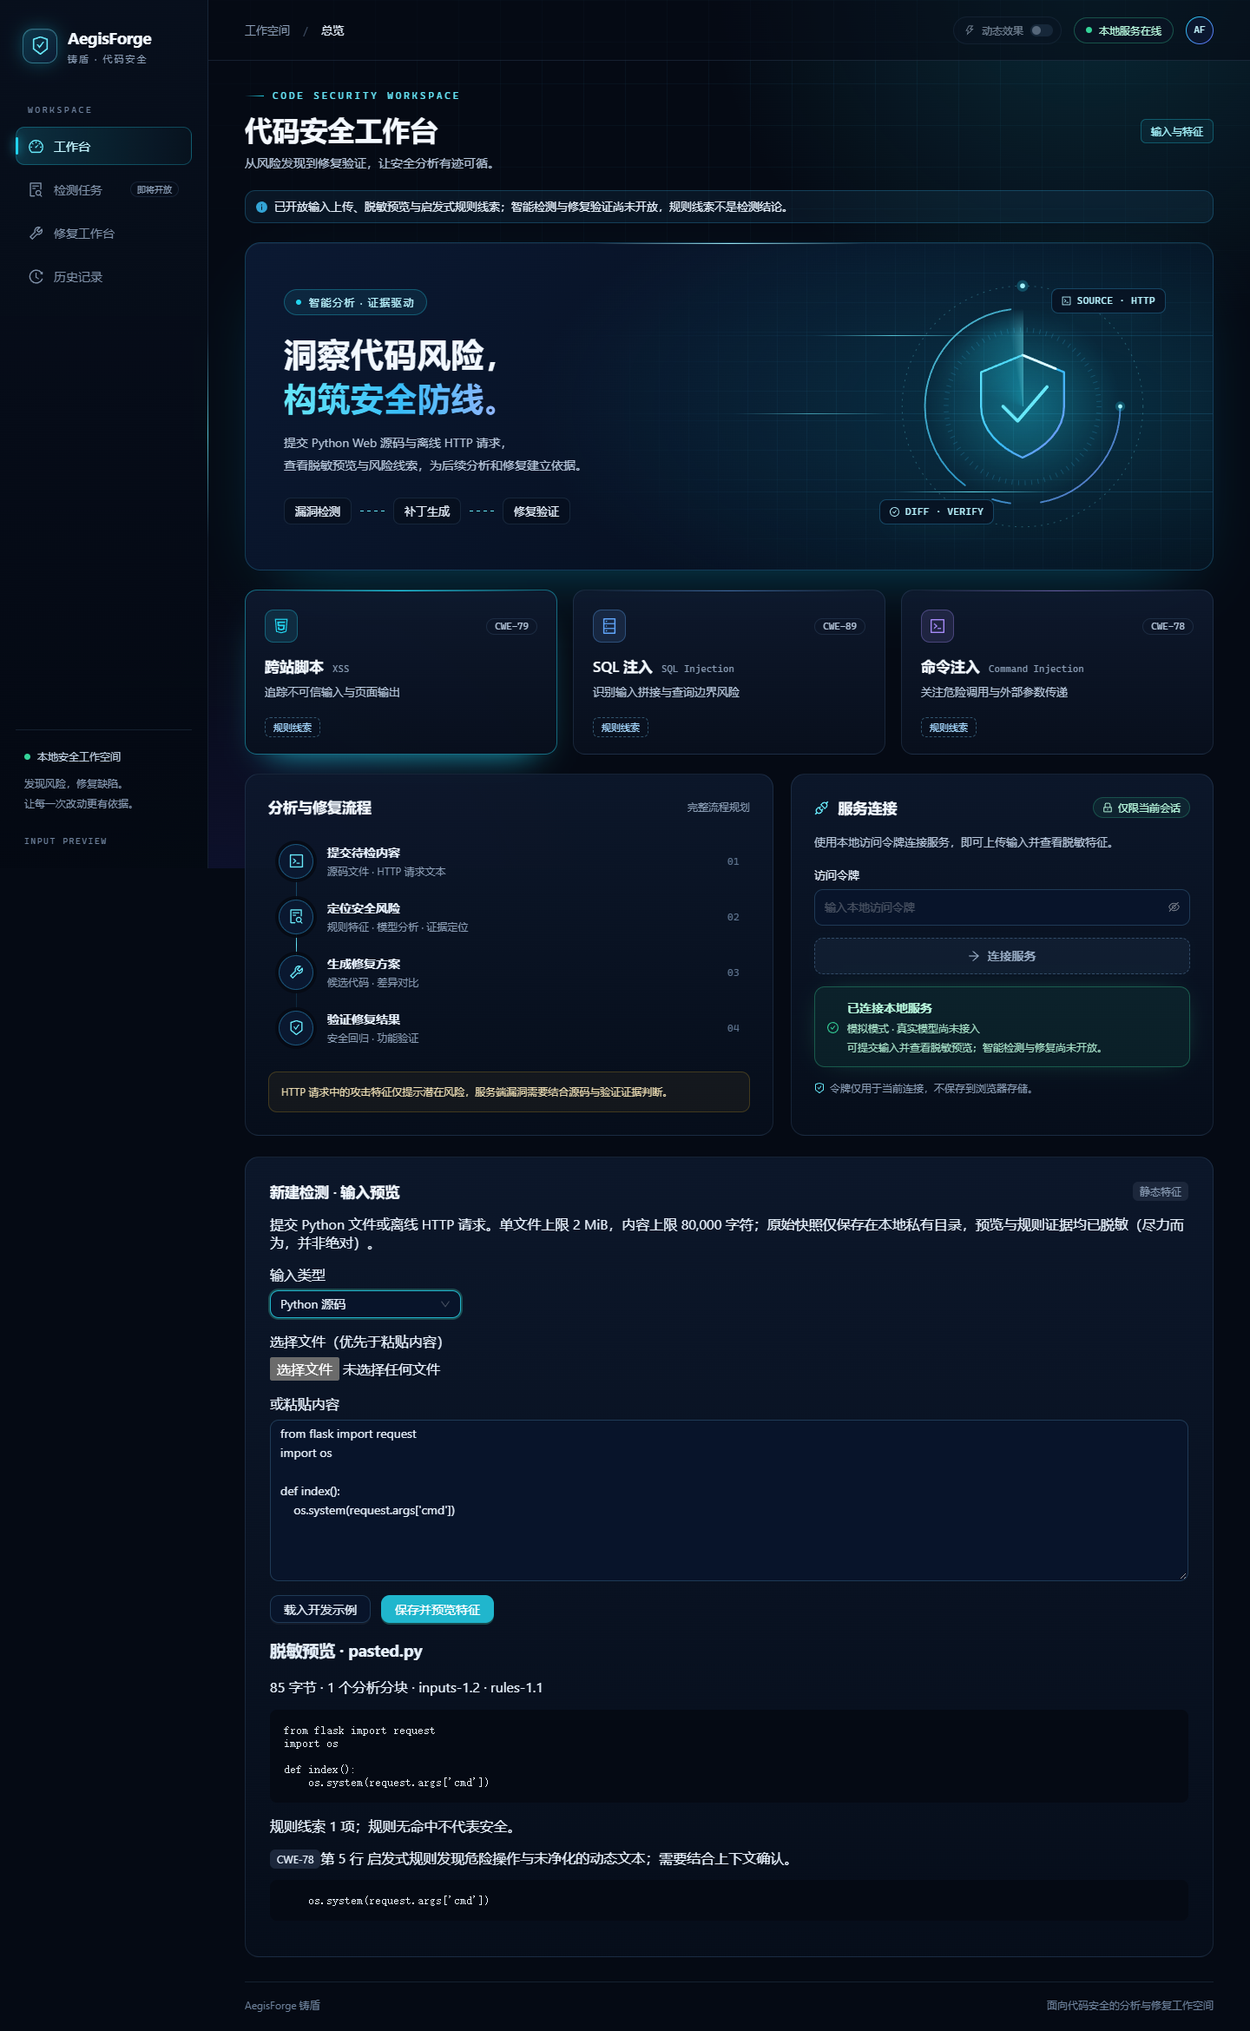
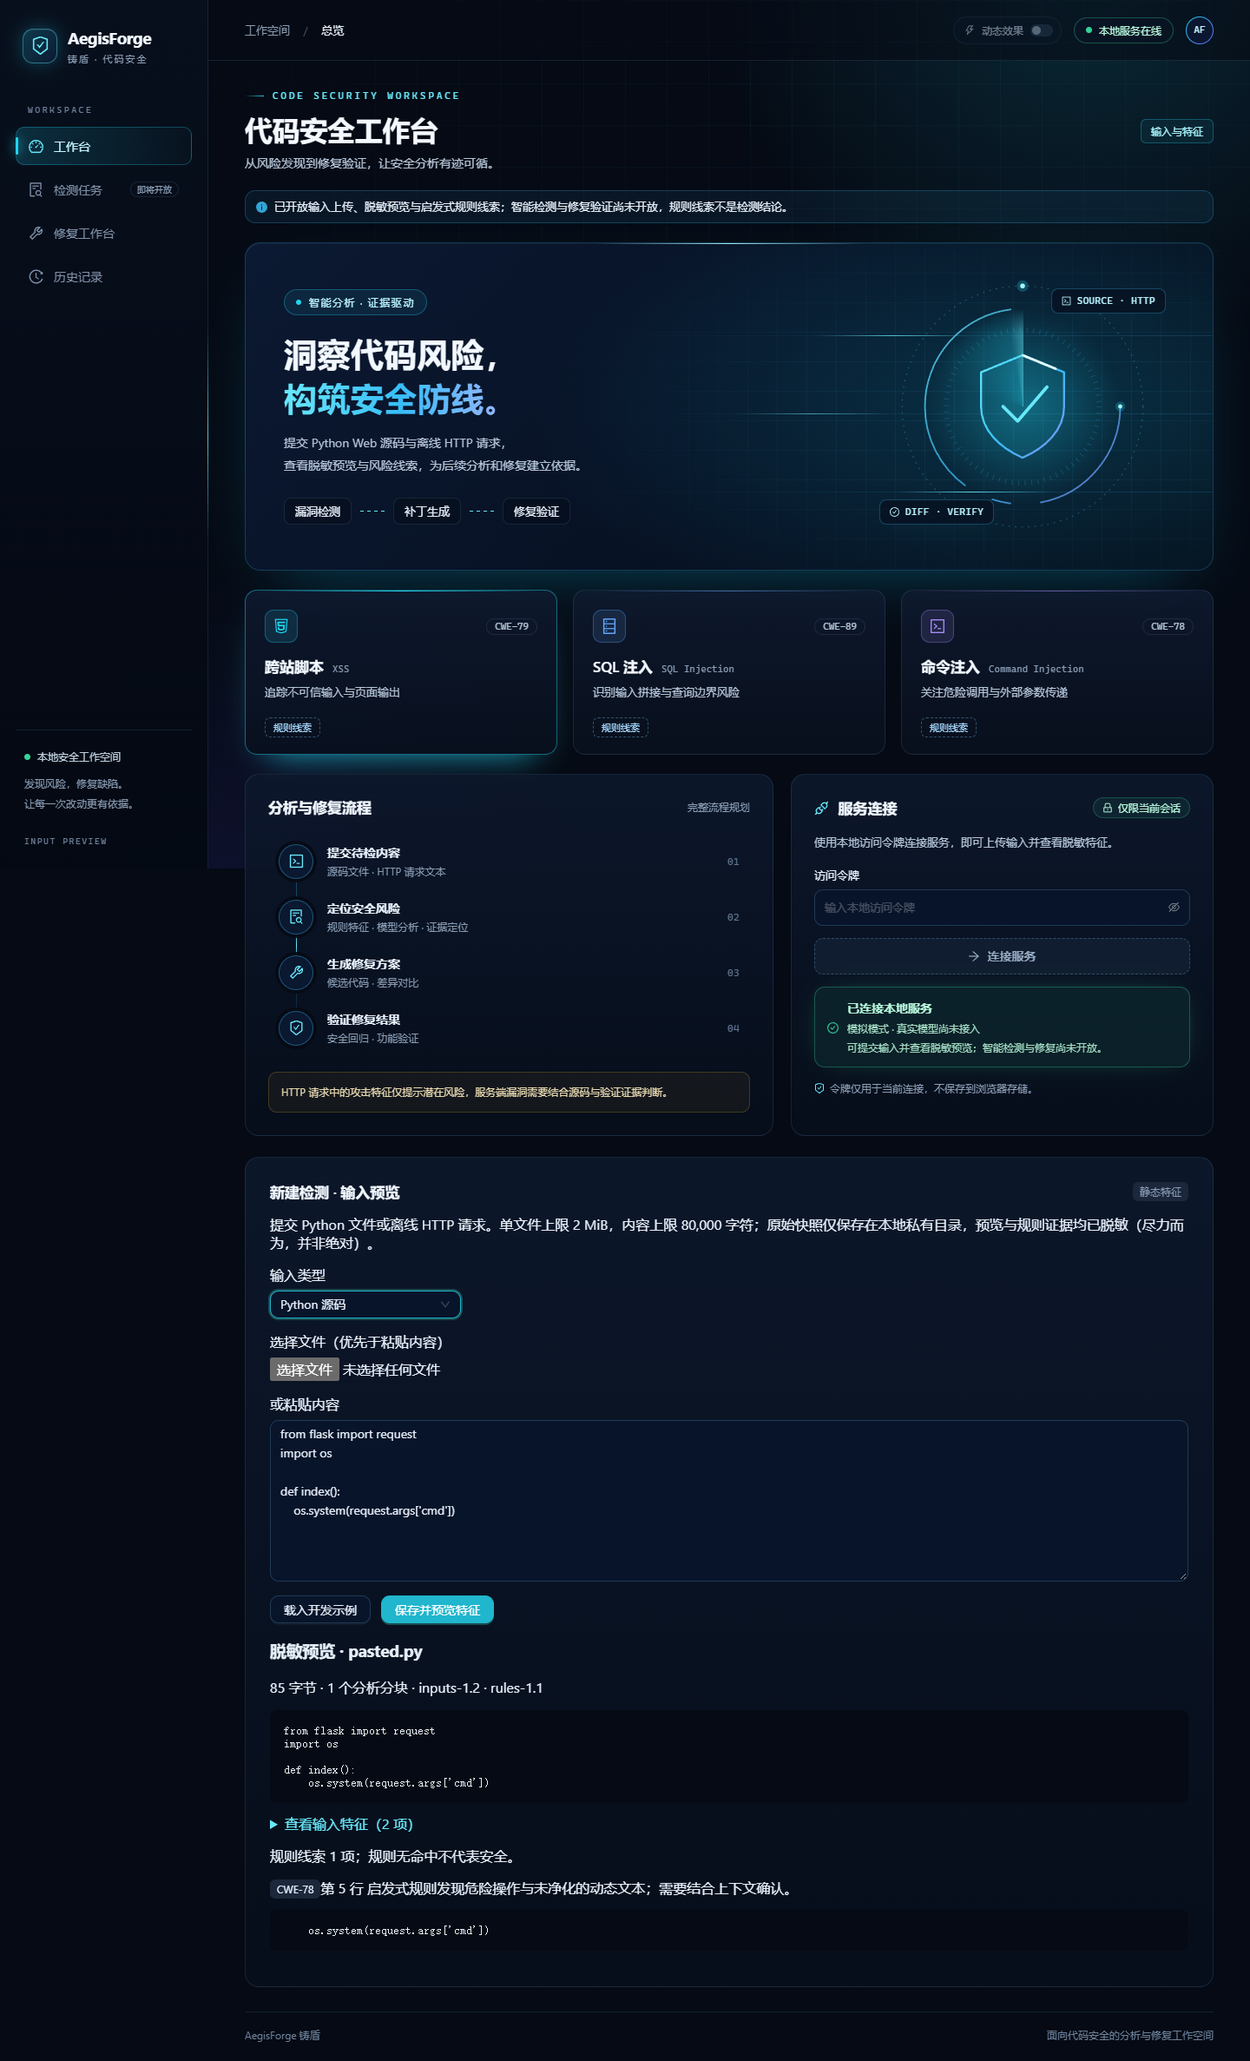
fix: expose source origins and limited text hints (Refs #3)

diff --git a/frontend/src/components/IngestPanel.tsx b/frontend/src/components/IngestPanel.tsx
@@ -8,6 +8,8 @@ const SAMPLES = {
   http: 'GET /?q=%3Cscript%3E HTTP/1.1\nHost: example.invalid\n\n',
 };
 
+const FEATURE_LABELS = { call: '函数调用', string_expression: '字符串表达式', input_source: '输入来源', text_call_hint: '文本调用线索' };
+
 function locate(finding: Finding, preview: ArtifactPreview): string {
   if (finding.location.kind === 'source') {
     const { start_line: start, end_line: end } = finding.location;
@@ -94,6 +96,15 @@ export default function IngestPanel({ token }: { token: string }) {
       <p>{artifact.size_bytes} 字节 · {artifact.chunk_count} 个分析分块 · {artifact.parser_version} · {artifact.rule_version}</p>
       {artifact.warnings.map((warning, index) => <Alert key={index} type="warning" title={warning} />)}
       <pre>{artifact.content}</pre>
+      {artifact.features.length > 0 && <details className="input-features">
+        <summary>查看输入特征（{artifact.features.length} 项）</summary>
+        <ul>{artifact.features.slice(0, 30).map((feature, index) => <li key={index}>
+          <Tag>{FEATURE_LABELS[feature.kind]}</Tag>第 {feature.line} 行 {feature.name ?? ''}
+          {feature.sink_candidate && <Tag>关注调用 · {feature.sink_candidate.toUpperCase()}</Tag>}
+        </li>)}</ul>
+        {artifact.features.length > 30 && <p>当前展示前 30 项。</p>}
+        <p>输入特征是分析线索，不是漏洞结论。</p>
+      </details>}
       <p>规则线索 {artifact.rule_findings.length} 项{artifact.rule_findings_truncated ? '（已达上限，未全部展示）' : ''}；规则无命中不代表安全。</p>
       {artifact.rule_findings.map((finding, index) => <div key={index}>
         <Tag>{finding.cwe}</Tag>{finding.evidence_truncated && <Tag color="warning">证据已截断</Tag>}

diff --git a/frontend/src/types/api.ts b/frontend/src/types/api.ts
@@ -31,10 +31,15 @@ export interface FieldMeta {
   line?: number; raw_start?: number; raw_end?: number; decode_limited?: boolean;
 }
 
+export interface InputFeature {
+  kind: 'call' | 'string_expression' | 'input_source' | 'text_call_hint';
+  line: number; name?: string; sink_candidate?: 'xss' | 'sqli' | 'cmdi';
+}
+
 export interface ArtifactPreview {
   id: string; input_type: 'source' | 'http'; display_name: string; sha256: string;
   size_bytes: number; parser_version: string; rule_version: string;
   content: string; fields: Record<string, string>; field_meta: Record<string, FieldMeta>;
-  features: unknown[]; warnings: string[]; chunk_count: number;
+  features: InputFeature[]; warnings: string[]; chunk_count: number;
   rule_findings: Finding[]; rule_findings_truncated: boolean;
 }

diff --git a/frontend/tests/e2e/inputs.spec.ts b/frontend/tests/e2e/inputs.spec.ts
@@ -27,6 +27,8 @@ test('uploads source and HTTP inputs, shows redacted evidence and rejects invali
   await expect(preview).toContainText('第 3 行');
   await expect(preview).not.toContainText('SYNTHETIC_PRIVATE_VALUE');
   await expect(preview).toContainText('[REDACTED]');
+  await preview.getByText(/查看输入特征/).click();
+  await expect(preview.getByText('输入来源', { exact: true })).toBeVisible();
 
   await panel.getByRole('button', { name: '载入开发示例' }).click();
   expect(await panel.locator('input[type=file]').evaluate((node: HTMLInputElement) => node.files?.length)).toBe(0);

diff --git a/frontend/src/styles.css b/frontend/src/styles.css
@@ -272,3 +272,4 @@ footer { display: flex; justify-content: space-between; gap: 12px; font-size: 12
 .artifact-preview pre { white-space: pre-wrap; overflow-wrap: anywhere; padding: 16px; background: #050a14; border-radius: 8px; max-height: 360px; overflow: auto; }
 .artifact-preview .ant-alert { margin-bottom: 8px; }
 @media (max-width: 590px) { .ingest-panel { padding: 18px; } }
+.input-features { margin: 12px 0; overflow-wrap: anywhere; } .input-features summary { cursor: pointer; color: #69e8f9; } .input-features li { margin: 8px 0; }

diff --git a/backend/app/parsers/inputs.py b/backend/app/parsers/inputs.py
@@ -29,6 +29,47 @@ MAX_JSON_DEPTH = 32
 MAX_FEATURES = 2_000
 LINE_SEPARATORS = frozenset("\x85  ")
 SUPPORTED_BODIES = "仅支持 JSON、application/x-www-form-urlencoded 与 text/plain 正文"
+REQUEST_FIELDS = frozenset(
+    {
+        "args",
+        "form",
+        "values",
+        "json",
+        "data",
+        "cookies",
+        "headers",
+        "view_args",
+        "get_json",
+        "get_data",
+    }
+)
+SHELL_CALLS = frozenset(
+    {
+        "os.system",
+        "os.popen",
+        "subprocess.run",
+        "subprocess.call",
+        "subprocess.Popen",
+        "subprocess.check_call",
+        "subprocess.check_output",
+        "subprocess.getoutput",
+        "subprocess.getstatusoutput",
+    }
+)
+TEXT_CALL = re.compile(
+    r"\b((?:[A-Za-z_]\w{0,63}\.){0,4}(?:system|popen|execute|executemany|executescript|"
+    r"render_template_string|Markup|make_response))\s*\("
+)
+
+
+def sink_category(name: str) -> str | None:
+    if name in SHELL_CALLS:
+        return "cmdi"
+    if name.rsplit(".", 1)[-1] in {"execute", "executemany", "executescript"}:
+        return "sqli"
+    if name.rsplit(".", 1)[-1] in {"render_template_string", "Markup", "make_response"}:
+        return "xss"
+    return None
 
 
 @dataclass(frozen=True)
@@ -133,14 +174,64 @@ def parse_source(text: str) -> ParsedInput:
     except (SyntaxError, ValueError, RecursionError, MemoryError):
         warnings.append("Python AST 解析失败：仅提供文本线索，源码规则未运行，分析能力受限。")
     if tree is not None:
+        aliases = {}
+        for node in ast.walk(tree):
+            if isinstance(node, ast.Import):
+                for alias in node.names:
+                    aliases[alias.asname or alias.name.split(".")[0]] = (
+                        alias.name if alias.asname else alias.name.split(".")[0]
+                    )
+            elif isinstance(node, ast.ImportFrom) and node.module:
+                for alias in node.names:
+                    aliases[alias.asname or alias.name] = f"{node.module}.{alias.name}"
+
+        def canonical(name: str) -> str:
+            root, dot, rest = name.partition(".")
+            return aliases.get(root, root) + dot + rest
+
         for node in ast.walk(tree):
             if isinstance(node, ast.Call):
-                name = redact_name(qualified(node.func))[:200]
-                features.append({"kind": "call", "name": name, "line": node.lineno})
-            elif isinstance(node, (ast.JoinedStr, ast.BinOp)):
+                original = qualified(node.func)
+                feature = {"kind": "call", "name": redact_name(original)[:200], "line": node.lineno}
+                category = sink_category(canonical(original))
+                if category:
+                    feature["sink_candidate"] = category  # A sink alone is not a vulnerability.
+                features.append(feature)
+            elif isinstance(node, ast.JoinedStr) or (
+                isinstance(node, ast.BinOp) and isinstance(node.op, (ast.Add, ast.Mod))
+            ):
                 features.append({"kind": "string_expression", "line": node.lineno})
+            elif isinstance(node, ast.Attribute):
+                original = qualified(node)
+                name = canonical(original)
+                root, _, member = name.rpartition(".")
+                if root in {"request", "flask.request"} and member in REQUEST_FIELDS:
+                    features.append(
+                        {
+                            "kind": "input_source",
+                            "name": redact_name(original)[:200],
+                            "line": node.lineno,
+                        }
+                    )
             if len(features) >= MAX_FEATURES:
                 warnings.append("特征预览达到 2,000 项上限；模型仍覆盖全部预算内文本。")
+                break
+    else:
+        # Text hints never become AST-verified rule findings. Expose names/line numbers,
+        # not raw snippets or credentials from the private matching view.
+        for line_number, line in enumerate(text.split("\n"), 1):
+            for match in TEXT_CALL.finditer(line):
+                features.append(
+                    {
+                        "kind": "text_call_hint",
+                        "name": redact_name(match[1])[:200],
+                        "line": line_number,
+                    }
+                )
+                if len(features) >= MAX_FEATURES:
+                    break
+            if len(features) >= MAX_FEATURES:
+                warnings.append("文本线索预览达到 2,000 项上限。")
                 break
     return ParsedInput(public, {}, {}, features, warnings, chunks, private_tree=tree)
 

diff --git a/backend/tests/test_source_features.py b/backend/tests/test_source_features.py
@@ -1,0 +1,29 @@
+from uuid import uuid4
+
+from app.parsers.inputs import parse_input
+from app.rules.detector import detect
+
+
+def test_request_origins_and_sink_candidates_do_not_claim_vulnerability():
+    code = (
+        "from flask import request as req\n"
+        "q = req.args['q']\n"
+        "api_key = 'FEATURE_SECRET'\n"
+        "cursor.execute('SELECT * FROM users WHERE name=?', (q,))\n"
+    )
+    parsed = parse_input("source", code)
+    assert any(
+        f["kind"] == "input_source" and f["name"] == "req.args" and f["line"] == 2
+        for f in parsed.features
+    )
+    assert any(f.get("sink_candidate") == "sqli" for f in parsed.features)
+    assert not detect(uuid4(), "source", parsed).findings
+    assert "FEATURE_SECRET" not in str(parsed.features)
+
+
+def test_unparseable_source_keeps_text_hints_without_ast_findings():
+    parsed = parse_input("source", "import os\nos.system(cmd)\ndef incomplete(\n")
+    assert parsed.private_tree is None
+    assert {"kind": "text_call_hint", "name": "os.system", "line": 2} in parsed.features
+    rules = detect(uuid4(), "source", parsed)
+    assert not rules.findings and rules.warnings

diff --git a/docs/collaboration-2026-11-05.md b/docs/collaboration-2026-11-05.md
@@ -10,7 +10,7 @@
 | --- | --- | --- |
 | M2 / 1 | `ec9099f8-cee9-4c49-adba-cd5a6662a538` | Codex 实现上传、快照、解析、规则和输入页；Claude 只读审查。Codex 复现脱敏破坏 AST、敏感字段载荷漏报、三次解码、Unicode 行号错位和超长参数异常。初始 46 项后端通过；新增控件导致前端 ResizeObserver 测试环境缺失，未掩盖失败。 |
 | M2 / 2 | `c0dbd1e0-cebd-451c-a059-4ca7b57854de` | Claude 实现检测/脱敏双视图、预算前置、输入/文件状态、开发样例与保留家族目录；Codex 阅读核心实现并运行 120 后端通过、1 平台跳过，13 前端通过，类型检查和 Ruff 通过。开发样例 48 源码/24 HTTP，哈希由本地脚本真实计算；保留集尚未冻结。 |
-| M2 / 3 | `1cbf91c1-07a7-4b28-a7ae-20413a812e97` | Claude 提出 A/B/C 取舍，Codex 采纳逐片段脱敏、行级证据附截断标记、按预登记目录编写保留样例并冻结的方案；Claude 开发，Codex 读 diff、复现实验、补上表达式内字符串脱敏与独占创建清理边界，生成实际冻结并审查验证。最终 141 后端通过、1 平台跳过，14 前端及 2 浏览器场景通过。 |
+| M2 / 3 | `1cbf91c1-07a7-4b28-a7ae-20413a812e97` | Claude 提出 A/B/C 取舍，Codex 采纳逐片段脱敏、行级证据附截断标记、按预登记目录编写保留样例并冻结的方案；Claude 开发，Codex 读 diff、复现实验、补上表达式内字符串脱敏与独占创建清理边界，生成实际冻结并审查验证。最终 143 后端通过、1 平台跳过，14 前端及 2 浏览器场景通过。 |
 | M3 / 1–3 | 用户暂缓，未调用 | 未开始实现。 |
 
 第二轮曾有失败调用 `e4feefd0-d1e1-46d5-ab0b-f5fd6ba3feb4`：Codex 设置的 1,800 秒硬时限触发 TIMEOUT，bridge 停止进程树；这次失败不计为成功轮次。Codex 核查进程已结束、修改保留、测试状态后，用户要求 Claude 仍工作时不要按固定时长打断；随后 `recover --confirm-reviewed --expect-session` 解锁原会话，按已落盘状态续接收尾，没有盲目重放全部修改。后续调用不再使用短时限。
@@ -18,3 +18,5 @@
 开发集规则报告只读取开发集：源码 24 TP、23 TN、1 FP；HTTP 12 TP、11 TN、1 FP。这是调试统计，不是保留集评测或真实模型结果。人工标注复核仍为 pending，AI 编写不算人工复核。完整准确率、修复与动态验证仍按 PLAN 在后续里程碑验收。
 
 第三轮的普通字面量与 f-string 文本片段修正通过后，Codex 另复现了表达式内嵌字符串漏出凭据，修复并加入 3 个回归例；核对了随机存储键碰撞不会删除既有快照、超长外层 Content-Length 不会转成 500、重新冻结失败保留旧锁。保留集只运行结构/语法/解析预算/哈希完整性检查，没有运行规则或模型评测。浏览器初次用隐藏的虚拟选项定位失败，改为键盘选择后完整 2 场景通过；没有扩大超时来掩盖问题。
+
+Codex 最后按 PLAN 核对补齐明确的 Flask 输入来源、关注调用候选与 AST 失败后的文本提示，输入页增加可展开的特征清单；增加两个回归例后本地后端为 143 passed / 1 平台 skipped，前端仍为 14，浏览器为 2。此补充不改变规则逻辑、测试标签或冻结输入。

diff --git a/docs/m2-design.md b/docs/m2-design.md
@@ -10,6 +10,7 @@
 | 私有（仅内存） | 源码原文 AST（`private_tree`）、HTTP 未脱敏规范化值（`private_fields`） | 仅规则匹配；`build_preview` 不读取，禁止序列化 |
 
 - 源码规则基于**原文** AST；证据取自脱敏视图的**同号行**。源码脱敏只改写字符串字面量、f-string 字面量片段与注释，并强制保持换行数，故行号一致且代码结构不被破坏。
+- 公开特征单独标记 Flask 请求输入来源（含导入别名）、调用与关注 sink、字符串构造及全局行号；语法失败时提供明确的文本调用线索，不能冒充 AST 规则发现。输入页可展开查看前 30 项，不把参数化查询等合法 sink 直接当作漏洞。
 - 非敏感上下文的 f-string：逐个字面量片段（`FSTRING_MIDDLE`）脱敏；若分词器偏移与原文不符（如 `{{` 转义），且整段 f-string 主体含可识别凭据，则保守遮盖整段主体，行数不变。不对所有字面量整体遮盖，以保留 SQL/HTML 构造证据。
 - Codex 最终审查补上表达式内嵌字符串的反例（如 `f"{'Bearer credential'}"`）：若片段改写后主体仍含可识别凭据，保守遮盖该主体，避免遗漏表达式里的字面量。
 - 认证方案：`Bearer`/`Token` 后 ≥8 字符一律遮盖（含纯字母）；`Basic` 在值呈 base64 形态（长度为 4 的倍数或含数字/`+/=`）时遮盖；`Digest` 后跟参数列表时遮盖其余部分。代价：英文说明文字（如 “Token refreshed”、“Basic workflow”）可能被误遮，只影响展示/模型文本，不影响规则（规则基于原文 AST）。

diff --git a/README.md b/README.md
@@ -10,7 +10,7 @@ An LLM-powered platform for web code vulnerability detection, remediation, and f
 
 **M2 输入与特征提取已实现并通过本地验证。** 当前可连接服务、上传/粘贴 Python 源码或离线 HTTP 请求、载入示例、查看脱敏预览及三类启发式规则线索。规则线索不等于已确认漏洞；真实 LLM、检测任务、修复和动态验证尚未开放，M3 按用户要求暂缓。
 
-M1 的深色科技风、流动盾牌与能量轨道、动效开关和减少动画设置继续保留。2026-11-05 完成 M2 的三轮 Claude/Codex 协作：[M2 设计](docs/m2-design.md)、[验证记录](docs/m2-verification.md)与 [协作记录](docs/collaboration-2026-11-05.md)。本地 141 后端通过、1 平台跳过，14 前端与 2 浏览器场景通过；120 源码/60 HTTP 样例已冻结，人工标注复核仍 pending。
+M1 的深色科技风、流动盾牌与能量轨道、动效开关和减少动画设置继续保留。2026-11-05 完成 M2 的三轮 Claude/Codex 协作：[M2 设计](docs/m2-design.md)、[验证记录](docs/m2-verification.md)与 [协作记录](docs/collaboration-2026-11-05.md)。本地 143 后端通过、1 平台跳过，14 前端与 2 浏览器场景通过；120 源码/60 HTTP 样例已冻结，人工标注复核仍 pending。
 
 - [实施与验收计划](PLAN.md)：系统框架、必做加分项、阶段交付、测试数据及验收门槛。
 - [课程要求与评分映射](docs/requirements.md)：原始要求的项目化追踪。

diff --git a/PLAN.md b/PLAN.md
@@ -10,7 +10,7 @@ M1 工程骨架已完成本地及 Windows/Linux GitHub CI 验收，证据见 [M1
 
 2026-11-05 用户恢复 M2，并授权 M3；两阶段各按“Codex 开发/Claude 审 → Claude 开发/Codex 审 → 讨论敲定、Claude 开发/Codex 审”协作三轮。真实模型验收经用户选择延后，不能将离线替身测试写成真实模型通过。当前进展与异常恢复见 [本次协作记录](docs/collaboration-2026-11-05.md)。上段暂缓状态为历史记录。
 
-用户随后收窄为只完成 M2，M3 暂缓。M2 已完成三轮协作、上传/解析/脱敏/规则及最小输入页，冻结 120 源码/60 HTTP 的家族划分与哈希，预登记 18 个受控修复例。本地 141 后端通过、1 平台跳过、14 前端及 2 浏览器场景通过；见 [M2 验证记录](docs/m2-verification.md)。PR 集成与人工标注复核仍待完成，不以此代替 M6 准确率或 M4 动态验证。
+用户随后收窄为只完成 M2，M3 暂缓。M2 已完成三轮协作、上传/解析/脱敏/规则及最小输入页，冻结 120 源码/60 HTTP 的家族划分与哈希，预登记 18 个受控修复例。本地 143 后端通过、1 平台跳过、14 前端及 2 浏览器场景通过；见 [M2 验证记录](docs/m2-verification.md)。PR 集成与人工标注复核仍待完成，不以此代替 M6 准确率或 M4 动态验证。
 
 ## 1. 目标与范围
 
